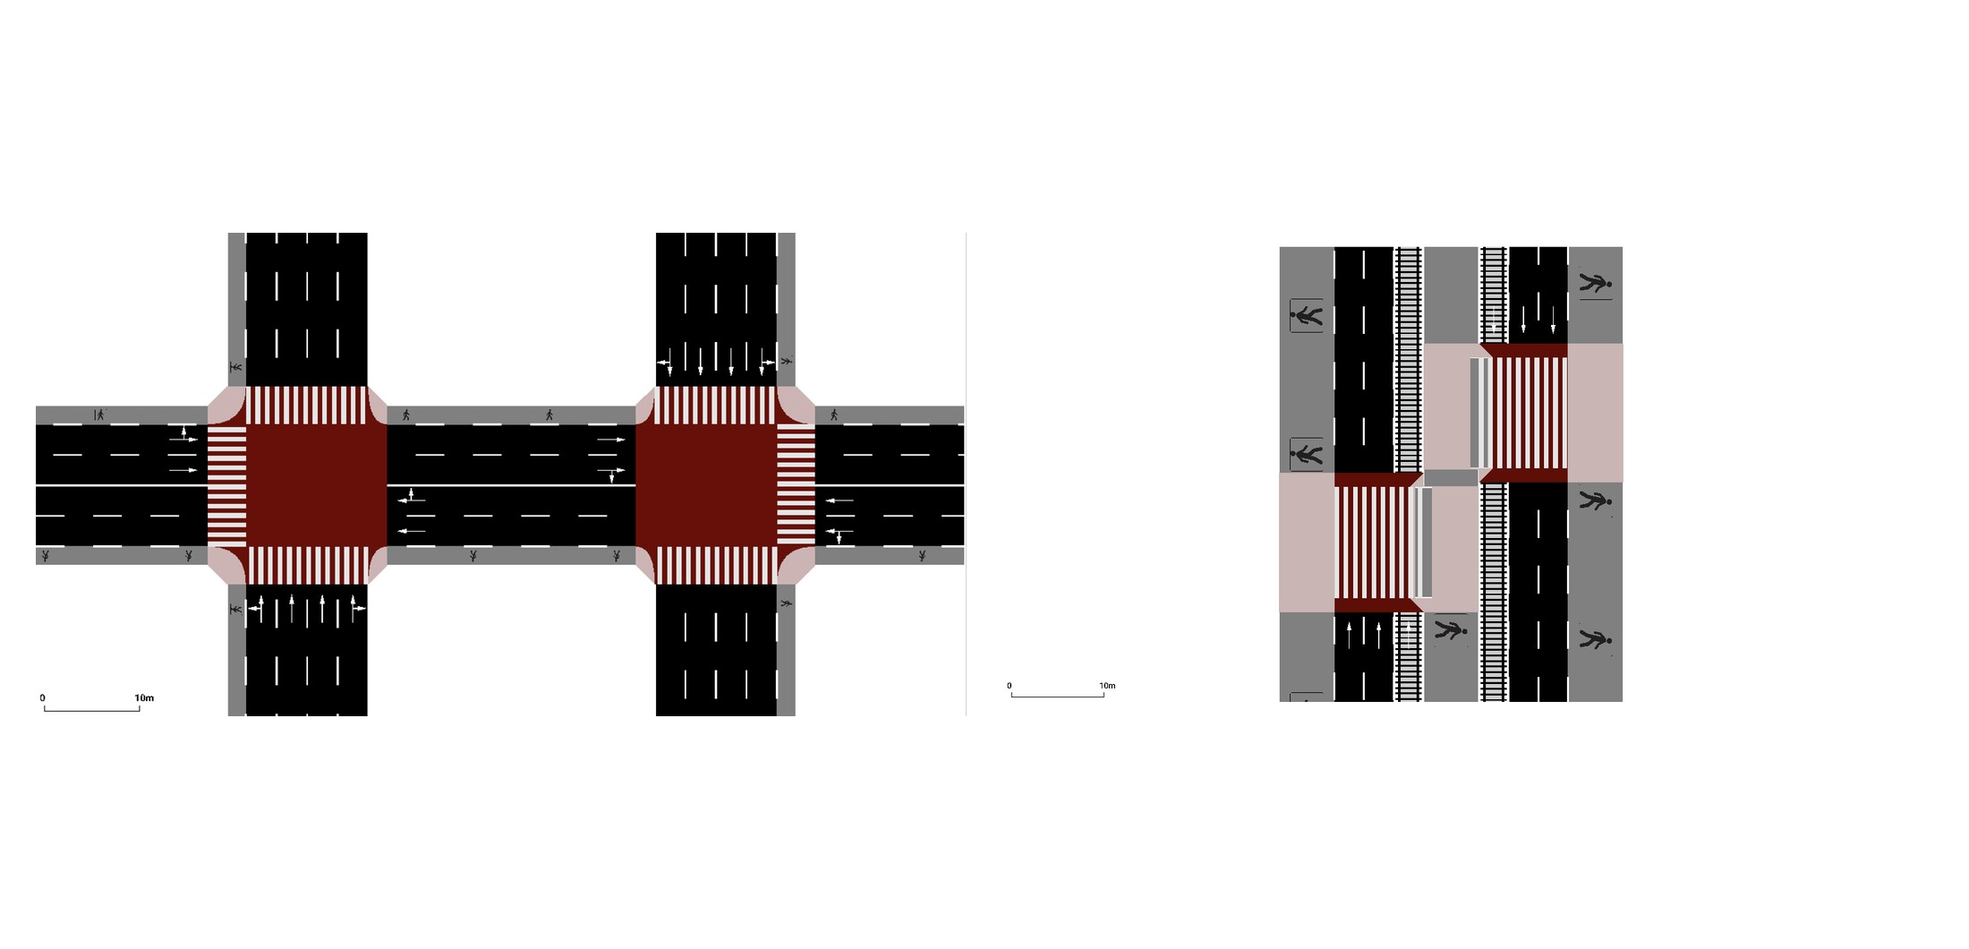
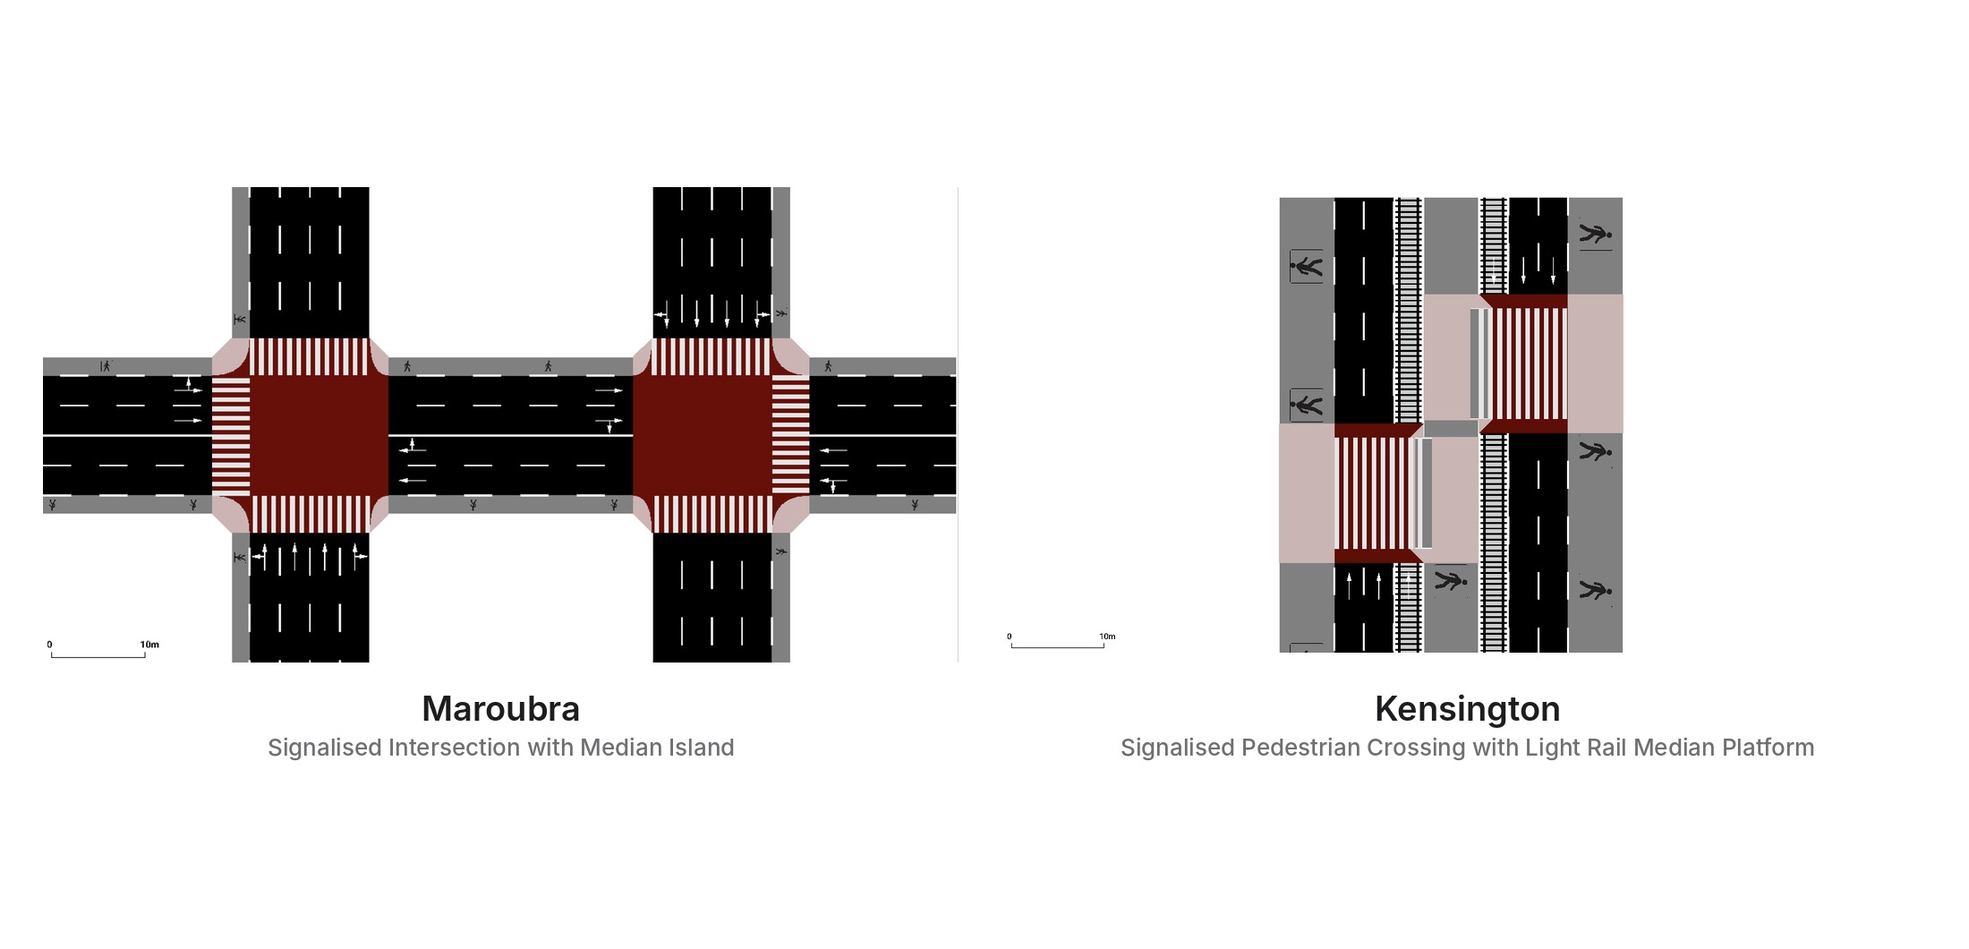
Add Mapping Equity project page, link it from the homepage, label PedLight study sites
Claude-Session: https://claude.ai/code/session_01M59whcELfLsnsUGQLMNNbi

Changed region(s): [[0.0, 0.1868, 0.4945, 0.8094], [0.5564, 0.1868, 0.9273, 0.8094]]

diff --git a/mapping-equity.html b/mapping-equity.html
@@ -1,0 +1,198 @@
+<!doctype html>
+<html lang="en">
+<head>
+<meta charset="utf-8">
+<meta name="viewport" content="width=device-width, initial-scale=1">
+<title>Mapping Equity · Lia Wun</title>
+<meta name="description" content="Mapping Equity: a GIS assessment of how fairly public amenities are spread across Blacktown, Sydney.">
+<link rel="preconnect" href="https://fonts.googleapis.com">
+<link rel="preconnect" href="https://fonts.gstatic.com" crossorigin>
+<link rel="stylesheet" href="https://fonts.googleapis.com/css2?family=Oswald:wght@600&amp;family=JetBrains+Mono:wght@500&amp;display=swap">
+<script>try{if(localStorage.getItem("theme")==="dark")document.documentElement.classList.add("dark")}catch(e){}</script>
+<link rel="stylesheet" href="assets/css/style.css?v=20261025m">
+<style>
+body{margin:0;background:#f5f5f7}
+a{color:#1d5fd0;text-decoration:none}a:hover{color:#174ba6;text-decoration:underline}
+.nav-link:hover{opacity:1 !important;text-decoration:none !important}
+.foot-a:hover{color:#1d1d1f !important}
+.i-hrow{scrollbar-width:none;scroll-behavior:smooth}
+.i-hrow::-webkit-scrollbar{display:none}
+@media (max-width:820px){
+ .foot-cols{grid-template-columns:repeat(2,minmax(0,1fr)) !important}
+ .i-wrap{padding-left:22px !important;padding-right:22px !important}
+ .i-title{font-size:48px !important}
+ .i-lead{font-size:19px !important}
+ .i-stats{grid-template-columns:repeat(2,minmax(0,1fr)) !important;row-gap:36px !important}
+ .i-stat-big{font-size:30px !important}
+ .i-grey-top{padding-top:96px !important}
+ .i-hrow{padding-left:22px !important;padding-right:22px !important;scroll-padding:0 22px !important}
+ .i-hcard{height:520px !important}
+ .i-hcap{font-size:18px !important;padding:22px 18px 28px !important}
+ .i-stat-big{font-size:34px !important}
+ .i-h2{font-size:36px !important}
+ .i-card{height:520px !important}
+ .i-card-cap{font-size:21px !important}
+ .i-values{grid-template-columns:repeat(1,minmax(0,1fr)) !important}
+}
+.i-hdot span{display:block;width:8px;height:8px;border-radius:999px;background:#86868b;transition:width .3s,background .3s}
+.i-hdot.on span{width:36px;background:#1d1d1f}
+html.dark .i-hdot.on span{background:#f5f5f7}
+html.dark .i-hcap{background:#000 !important;color:#fff !important}
+</style>
+</head>
+<body>
+<div style="font-family: system-ui, -apple-system, 'Helvetica Neue', sans-serif; color: #1d1d1f; background: #f5f5f7; -webkit-font-smoothing: antialiased">
+
+<header class="nav">
+  <nav class="nav-inner" aria-label="Main">
+    <div class="nav-links" id="navLinks">
+      <a class="nav-link" href="index.html">Home</a>
+      <a class="nav-link" href="about.html">About Me</a>
+      <a class="nav-link is-current" href="projects.html" aria-current="page">Projects</a>
+      <a class="nav-link" href="blog.html">Blog</a>
+      <a class="nav-link" href="contact.html">Contact</a>
+      <button class="nav-dark" type="button" aria-label="Dark mode">Dark</button>
+    </div>
+    <button class="mobile-menu" type="button" aria-label="Menu" aria-expanded="false" aria-controls="navLinks">
+      <svg aria-hidden="true" width="17" height="17" viewBox="0 0 24 24" fill="none" stroke="currentColor" stroke-width="2" stroke-linecap="round"><path d="M4 9h16M4 15h16"/></svg>
+    </button>
+  </nav>
+</header>
+
+<section style="background: #f5f5f7; padding: 104px 0 120px; overflow: hidden">
+<div class="i-wrap" style="max-width: 1100px; margin: 0 auto; padding: 0 48px">
+<h1 class="i-title" style="margin: 0; font-size: 96px; line-height: 1.05; font-weight: 600; letter-spacing: -0.025em">Mapping Equity</h1>
+<p class="i-lead" style="margin: 40px 0 0; max-width: 940px; font-size: 21px; line-height: 1.5; color: #6e6e73">A GIS project assessing how fairly public amenities are spread across Blacktown, one of western Sydney’s fastest-growing LGAs. We mapped five types of amenity in QGIS and ArcGIS Online, combined them in a hot spot analysis, and compared the results with population density and IRSAD to locate suburbs facing spatial inequity.</p>
+<p class="i-site" style="margin: 64px 0 0; font-size: 21px; line-height: 1.3; font-weight: 600; color: #1d1d1f">📍 Blacktown · Western Sydney</p>
+<div class="i-stats" style="display: grid; grid-template-columns: repeat(4, minmax(0, 1fr)); align-items: stretch; gap: 20px; margin-top: 16px">
+<div class="i-stat keep-light" style="box-sizing: border-box; padding: 24px 24px 26px; border-radius: 22px; background: #eaf1fc">
+<p style="margin: 0; font-size: 14px; line-height: 1.4; font-weight: 600; color: #1d5fd0">residents (2021 Census)</p>
+<p class="i-stat-big" style="margin: 8px 0 0; font-size: 44px; line-height: 1.1; font-weight: 600; letter-spacing: -0.01em; color: #1d5fd0">396,776</p>
+<p style="margin: 8px 0 0; font-size: 14px; line-height: 1.4; color: #1d1d1f">Across 238.9 km², with fast growth expected in new release areas.</p>
+</div>
+<div class="i-stat keep-light" style="box-sizing: border-box; padding: 24px 24px 26px; border-radius: 22px; background: #fdeceb">
+<p style="margin: 0; font-size: 14px; line-height: 1.4; font-weight: 600; color: #e5332a">amenity types</p>
+<p class="i-stat-big" style="margin: 8px 0 0; font-size: 44px; line-height: 1.1; font-weight: 600; letter-spacing: -0.01em; color: #e5332a">5</p>
+<p style="margin: 8px 0 0; font-size: 14px; line-height: 1.4; color: #1d1d1f">Public space, local living, education, transport nodes, and places to stop and rest, each weighted 20%.</p>
+</div>
+<div class="i-stat keep-light" style="box-sizing: border-box; padding: 24px 24px 26px; border-radius: 22px; background: #f2ecfd">
+<p style="margin: 0; font-size: 14px; line-height: 1.4; font-weight: 600; color: #7b3fe4">hot spot grid</p>
+<p class="i-stat-big" style="margin: 8px 0 0; font-size: 44px; line-height: 1.1; font-weight: 600; letter-spacing: -0.01em; color: #7b3fe4">400 m</p>
+<p style="margin: 8px 0 0; font-size: 14px; line-height: 1.4; color: #1d1d1f">Hexagon cells scored with buffer and service-area analysis, then tested for hot and cold spots.</p>
+</div>
+<div class="i-stat keep-light" style="box-sizing: border-box; padding: 24px 24px 26px; border-radius: 22px; background: #e8f5ec">
+<p style="margin: 0; font-size: 14px; line-height: 1.4; font-weight: 600; color: #2e9b4a">suburbs with spatial inequity</p>
+<p class="i-stat-big" style="margin: 8px 0 0; font-size: 44px; line-height: 1.1; font-weight: 600; letter-spacing: -0.01em; color: #2e9b4a">4</p>
+<p style="margin: 8px 0 0; font-size: 14px; line-height: 1.4; color: #1d1d1f">Richards and Eastern Creek (high); Angus and Shanes Park (moderate).</p>
+</div>
+</div>
+</div>
+<div id="i-hrow" class="i-hrow" style="margin-top: 72px; display: flex; flex-direction: row; flex-wrap: nowrap; gap: 24px; overflow-x: auto; scroll-snap-type: x mandatory; scroll-padding: 0 max(48px, calc((100% - 1100px) / 2)); padding: 0 max(48px, calc((100% - 1100px) / 2)) 12px">
+
+<div class="i-hcard keep-light" style="flex: none; width: 100%; scroll-snap-align: start; height: 680px; box-sizing: border-box; border-radius: 28px; background: #ffffff; overflow: hidden; display: flex; flex-direction: column">
+<img src="img/mapping-equity/03-public.jpg" alt="Public areas in Blacktown with 400 m and 800 m buffers" style="width: 100%; flex: 1; min-height: 0; object-fit: cover; object-position: center center; background: #ffffff; display: block">
+<p class="i-hcap" style="margin: 0; padding: 32px 32px 44px; text-align: center; font-size: 24px; line-height: 1.3; font-weight: 600; background: #000000; color: #ffffff">Public space. <br>400 m and 800 m buffers show which homes are within walking distance of parks and open space.</p>
+</div>
+
+<div class="i-hcard keep-light" style="flex: none; width: 100%; scroll-snap-align: start; height: 680px; box-sizing: border-box; border-radius: 28px; background: #ffffff; overflow: hidden; display: flex; flex-direction: column">
+<img src="img/mapping-equity/04-local.jpg" alt="Local living facilities and their service areas in Blacktown" style="width: 100%; flex: 1; min-height: 0; object-fit: cover; object-position: center center; background: #ffffff; display: block">
+<p class="i-hcap" style="margin: 0; padding: 32px 32px 44px; text-align: center; font-size: 24px; line-height: 1.3; font-weight: 600; background: #000000; color: #ffffff">Local living. <br>Childcare, community, medical, post, recreation and shopping facilities cluster in the main suburbs.</p>
+</div>
+
+<div class="i-hcard keep-light" style="flex: none; width: 100%; scroll-snap-align: start; height: 680px; box-sizing: border-box; border-radius: 28px; background: #ffffff; overflow: hidden; display: flex; flex-direction: column">
+<img src="img/mapping-equity/05-education.jpg" alt="Blacktown schools with 800 m walking buffers" style="width: 100%; flex: 1; min-height: 0; object-fit: cover; object-position: center center; background: #ffffff; display: block">
+<p class="i-hcap" style="margin: 0; padding: 32px 32px 44px; text-align: center; font-size: 24px; line-height: 1.3; font-weight: 600; background: #000000; color: #ffffff">Education facilities. <br>Eastern Creek, Angus and Shanes Park have limited access within an 800 m walk.</p>
+</div>
+
+<div class="i-hcard keep-light" style="flex: none; width: 100%; scroll-snap-align: start; height: 680px; box-sizing: border-box; border-radius: 28px; background: #ffffff; overflow: hidden; display: flex; flex-direction: column">
+<img src="img/mapping-equity/06-transport.jpg" alt="Transport node buffers and areas without coverage in Blacktown" style="width: 100%; flex: 1; min-height: 0; object-fit: cover; object-position: center center; background: #ffffff; display: block">
+<p class="i-hcap" style="margin: 0; padding: 32px 32px 44px; text-align: center; font-size: 24px; line-height: 1.3; font-weight: 600; background: #000000; color: #ffffff">Transport nodes. <br>Red areas have no bus stop, interchange, car or bicycle parking within walking distance.</p>
+</div>
+
+<div class="i-hcard keep-light" style="flex: none; width: 100%; scroll-snap-align: start; height: 680px; box-sizing: border-box; border-radius: 28px; background: #ffffff; overflow: hidden; display: flex; flex-direction: column">
+<img src="img/mapping-equity/07-rest.jpg" alt="Blacktown rest area with a 60-minute driving service area" style="width: 100%; flex: 1; min-height: 0; object-fit: cover; object-position: center center; background: #ffffff; display: block">
+<p class="i-hcap" style="margin: 0; padding: 32px 32px 44px; text-align: center; font-size: 24px; line-height: 1.3; font-weight: 600; background: #000000; color: #ffffff">Places to stop and rest. <br>Blacktown’s only rest area reaches the whole LGA within a 60-minute drive.</p>
+</div>
+
+<div class="i-hcard keep-light" style="flex: none; width: 100%; scroll-snap-align: start; height: 680px; box-sizing: border-box; border-radius: 28px; background: #ffffff; overflow: hidden; display: flex; flex-direction: column">
+<img src="img/mapping-equity/08-hotspot.jpg" alt="Hot spot analysis of amenity scores on a hexagon grid" style="width: 100%; flex: 1; min-height: 0; object-fit: cover; object-position: center center; background: #ffffff; display: block">
+<p class="i-hcap" style="margin: 0; padding: 32px 32px 44px; text-align: center; font-size: 24px; line-height: 1.3; font-weight: 600; background: #000000; color: #ffffff">Amenity hot spots. <br>Cold spots in the north, hot spots in the centre, and no clear pattern in the south.</p>
+</div>
+
+<div class="i-hcard keep-light" style="flex: none; width: 100%; scroll-snap-align: start; height: 680px; box-sizing: border-box; border-radius: 28px; background: #ffffff; overflow: hidden; display: flex; flex-direction: column">
+<img src="img/mapping-equity/09-density.jpg" alt="Population density by suburb in Blacktown" style="width: 100%; flex: 1; min-height: 0; object-fit: cover; object-position: center center; background: #ffffff; display: block">
+<p class="i-hcap" style="margin: 0; padding: 32px 32px 44px; text-align: center; font-size: 24px; line-height: 1.3; font-weight: 600; background: #000000; color: #ffffff">Population density. <br>Most residents live in the centre at 2,000–3,000 people/km²; the north and south fall below 600.</p>
+</div>
+
+<div class="i-hcard keep-light" style="flex: none; width: 100%; scroll-snap-align: start; height: 680px; box-sizing: border-box; border-radius: 28px; background: #ffffff; overflow: hidden; display: flex; flex-direction: column">
+<img src="img/mapping-equity/10-irsad.jpg" alt="IRSAD score by suburb in Blacktown" style="width: 100%; flex: 1; min-height: 0; object-fit: cover; object-position: center center; background: #ffffff; display: block">
+<p class="i-hcap" style="margin: 0; padding: 32px 32px 44px; text-align: center; font-size: 24px; line-height: 1.3; font-weight: 600; background: #000000; color: #ffffff">IRSAD score. <br>Low scores around Lethbridge Park, Doonside, Eastern Creek and Richards; high scores near Schofields.</p>
+</div>
+
+<div class="i-hcard keep-light" style="flex: none; width: 100%; scroll-snap-align: start; height: 680px; box-sizing: border-box; border-radius: 28px; background: #ffffff; overflow: hidden; display: flex; flex-direction: column">
+<img src="img/mapping-equity/11-density-hotspot.jpg" alt="Swipe comparison of population density and amenity hot spots" style="width: 100%; flex: 1; min-height: 0; object-fit: cover; object-position: center center; background: #ffffff; display: block">
+<p class="i-hcap" style="margin: 0; padding: 32px 32px 44px; text-align: center; font-size: 24px; line-height: 1.3; font-weight: 600; background: #000000; color: #ffffff">Density vs hot spots. <br>Denser suburbs are amenity hot spots, while sparser ones are cold spots.</p>
+</div>
+
+<div class="i-hcard keep-light" style="flex: none; width: 100%; scroll-snap-align: start; height: 680px; box-sizing: border-box; border-radius: 28px; background: #ffffff; overflow: hidden; display: flex; flex-direction: column">
+<img src="img/mapping-equity/12-irsad-hotspot.jpg" alt="Swipe comparison of IRSAD score and amenity hot spots" style="width: 100%; flex: 1; min-height: 0; object-fit: cover; object-position: center center; background: #ffffff; display: block">
+<p class="i-hcap" style="margin: 0; padding: 32px 32px 44px; text-align: center; font-size: 24px; line-height: 1.3; font-weight: 600; background: #000000; color: #ffffff">IRSAD vs hot spots. <br>No clear link: low-IRSAD suburbs appear as both hot and cold spots.</p>
+</div>
+
+<div class="i-hcard keep-light" style="flex: none; width: 100%; scroll-snap-align: start; height: 680px; box-sizing: border-box; border-radius: 28px; background: #ffffff; overflow: hidden; display: flex; flex-direction: column">
+<img src="img/mapping-equity/01-method.jpg" alt="Flowchart of the research methodology" style="width: 100%; flex: 1; min-height: 0; object-fit: cover; object-position: center center; background: #ffffff; display: block">
+<p class="i-hcap" style="margin: 0; padding: 32px 32px 44px; text-align: center; font-size: 24px; line-height: 1.3; font-weight: 600; background: #000000; color: #ffffff">Research method. <br>Five amenity types feed a hot spot analysis, which is then compared with population density and IRSAD.</p>
+</div>
+
+<div class="i-hcard keep-light" style="flex: none; width: 100%; scroll-snap-align: start; height: 680px; box-sizing: border-box; border-radius: 28px; background: #ffffff; overflow: hidden; display: flex; flex-direction: column">
+<img src="img/mapping-equity/02-workflow.jpg" alt="QGIS workflow used to build the hot spot analysis layer" style="width: 100%; flex: 1; min-height: 0; object-fit: cover; object-position: center center; background: #ffffff; display: block">
+<p class="i-hcap" style="margin: 0; padding: 32px 32px 44px; text-align: center; font-size: 24px; line-height: 1.3; font-weight: 600; background: #000000; color: #ffffff">Hot spot workflow. <br>Each amenity is buffered, joined to a 400 m hexagon grid and scored before the hot spot test.</p>
+</div>
+</div>
+<div style="display: flex; justify-content: center; padding: 28px 7% 0">
+<div class="i-hdots" style="height: 56px; padding: 0 22px; border-radius: 999px; background: rgba(232, 232, 237, 0.9); display: flex; align-items: center; gap: 4px">
+<button type="button" class="i-hdot on" aria-current="true" aria-label="Go to slide 1 of 12" style="height: 44px; padding: 0 6px; border: none; background: transparent; display: flex; align-items: center; cursor: pointer"><span></span></button>
+<button type="button" class="i-hdot" aria-label="Go to slide 2 of 12" style="height: 44px; padding: 0 6px; border: none; background: transparent; display: flex; align-items: center; cursor: pointer"><span></span></button>
+<button type="button" class="i-hdot" aria-label="Go to slide 3 of 12" style="height: 44px; padding: 0 6px; border: none; background: transparent; display: flex; align-items: center; cursor: pointer"><span></span></button>
+<button type="button" class="i-hdot" aria-label="Go to slide 4 of 12" style="height: 44px; padding: 0 6px; border: none; background: transparent; display: flex; align-items: center; cursor: pointer"><span></span></button>
+<button type="button" class="i-hdot" aria-label="Go to slide 5 of 12" style="height: 44px; padding: 0 6px; border: none; background: transparent; display: flex; align-items: center; cursor: pointer"><span></span></button>
+<button type="button" class="i-hdot" aria-label="Go to slide 6 of 12" style="height: 44px; padding: 0 6px; border: none; background: transparent; display: flex; align-items: center; cursor: pointer"><span></span></button>
+<button type="button" class="i-hdot" aria-label="Go to slide 7 of 12" style="height: 44px; padding: 0 6px; border: none; background: transparent; display: flex; align-items: center; cursor: pointer"><span></span></button>
+<button type="button" class="i-hdot" aria-label="Go to slide 8 of 12" style="height: 44px; padding: 0 6px; border: none; background: transparent; display: flex; align-items: center; cursor: pointer"><span></span></button>
+<button type="button" class="i-hdot" aria-label="Go to slide 9 of 12" style="height: 44px; padding: 0 6px; border: none; background: transparent; display: flex; align-items: center; cursor: pointer"><span></span></button>
+<button type="button" class="i-hdot" aria-label="Go to slide 10 of 12" style="height: 44px; padding: 0 6px; border: none; background: transparent; display: flex; align-items: center; cursor: pointer"><span></span></button>
+<button type="button" class="i-hdot" aria-label="Go to slide 11 of 12" style="height: 44px; padding: 0 6px; border: none; background: transparent; display: flex; align-items: center; cursor: pointer"><span></span></button>
+<button type="button" class="i-hdot" aria-label="Go to slide 12 of 12" style="height: 44px; padding: 0 6px; border: none; background: transparent; display: flex; align-items: center; cursor: pointer"><span></span></button>
+</div>
+</div>
+</section>
+
+
+
+
+
+<footer class="foot">
+  <div class="foot-inner">
+    <div class="foot-left">
+      <span>Copyright © 2026 Lia. All rights reserved.</span>
+      <a href="#">Privacy</a>
+      <a href="#">Terms of Use</a>
+      <a href="#">Hi Lia</a>
+      <a href="#">Site Map</a>
+    </div>
+    <span class="foot-place">Sydney, Australia</span>
+  </div>
+</footer>
+
+</div>
+<script src="assets/js/main.js?v=20261025m"></script>
+<script>
+(function(){var row=document.getElementById('i-hrow');if(!row)return;
+function W(){return row.firstElementChild.offsetWidth+24}
+var dots=document.querySelectorAll('.i-hdot');
+dots.forEach(function(d,k){d.addEventListener('click',function(){row.scrollTo({left:k*W(),behavior:'smooth'})})});
+var raf=0;row.addEventListener('scroll',function(){if(raf)return;raf=requestAnimationFrame(function(){raf=0;var k=Math.max(0,Math.min(dots.length-1,Math.round(row.scrollLeft/W())));dots.forEach(function(d,j){d.classList.toggle('on',j===k);if(j===k)d.setAttribute('aria-current','true');else d.removeAttribute('aria-current')})})},{passive:true});
+})();
+</script>
+</body>
+</html>

diff --git a/pedlight-sac.html b/pedlight-sac.html
@@ -63,7 +63,7 @@ html.dark .i-hcap{background:#000 !important;color:#fff !important}
 <div class="i-wrap" style="max-width: 1100px; margin: 0 auto; padding: 0 48px">
 <h1 class="i-title" style="margin: 0; font-size: 96px; line-height: 1.05; font-weight: 600; letter-spacing: -0.025em">PedLight-SAC</h1>
 <p class="i-lead" style="margin: 40px 0 0; max-width: 940px; font-size: 21px; line-height: 1.5; color: #6e6e73">PedLight-SAC is a reinforcement learning model (Soft Actor-Critic) for traffic signals that cuts both average and extreme pedestrian waits with minimal or no cost to vehicles. It was trained in SUMO at two crossings on Anzac Parade, Sydney, and compared against fixed-time control, which approximates current SCATS operation.</p>
-<p class="i-site" style="margin: 64px 0 0; font-size: 21px; line-height: 1.3; font-weight: 600; color: #1d1d1f">📍 Maroubra · Signalised Intersection with Medium Island</p>
+<p class="i-site" style="margin: 64px 0 0; font-size: 21px; line-height: 1.3; font-weight: 600; color: #1d1d1f">📍 Maroubra · Signalised Intersection with Median Island</p>
 <div class="i-stats" style="display: grid; grid-template-columns: repeat(4, minmax(0, 1fr)); align-items: stretch; gap: 20px; margin-top: 16px">
 <div class="i-stat keep-light" style="box-sizing: border-box; padding: 24px 24px 26px; border-radius: 22px; background: #e8f5ec">
 <p style="margin: 0; font-size: 14px; line-height: 1.4; font-weight: 600; color: #2e9b4a">average pedestrian delay</p>

diff --git a/index.html b/index.html
@@ -67,11 +67,11 @@
 
   <section class="split split-rev dark">
     <div class="split-text">
-      <h3 class="split-h">Mapping Equity</h3>
+      <h3 class="split-h"><a class="split-h-link" href="mapping-equity.html">Mapping Equity</a></h3>
       <p>Mapping of amenity equity in Blacktown. Ran hot spot analysis against population density and IRSAD, revealing underserved areas.</p>
-      <a href="#">Explore</a>
+      <a href="mapping-equity.html">Explore</a>
     </div>
-    <img class="split-img" src="img/blacktown.jpg" alt="Amenity equity hot spot map of Blacktown">
+    <a class="split-img-link" href="mapping-equity.html" aria-label="Mapping Equity project"><img class="split-img" src="img/blacktown.jpg" alt="Amenity equity hot spot map of Blacktown"></a>
   </section>
 
   <section class="split">
